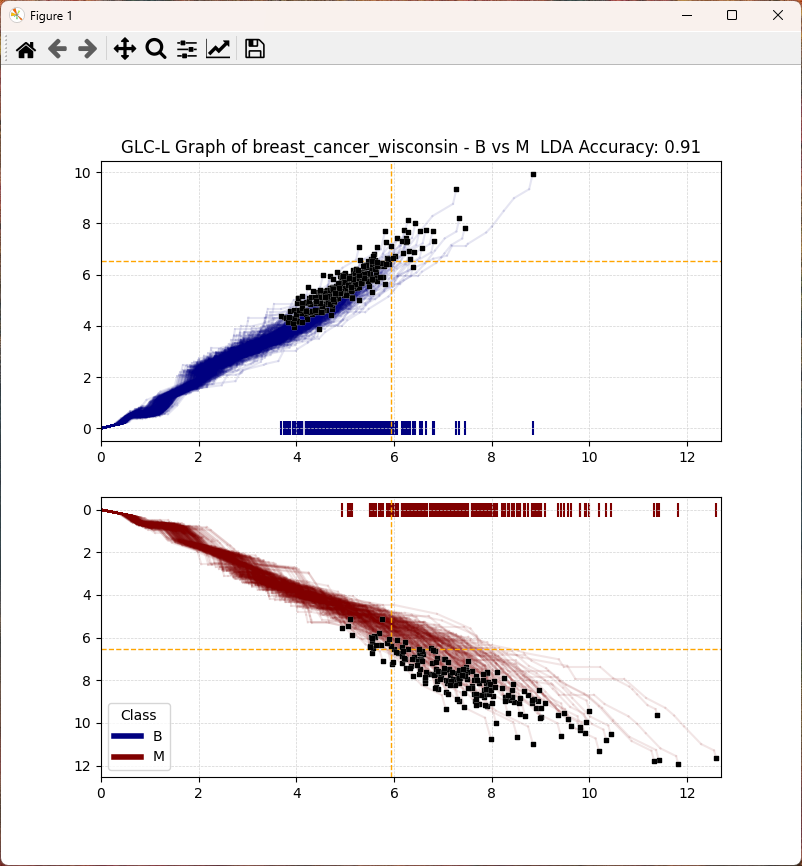
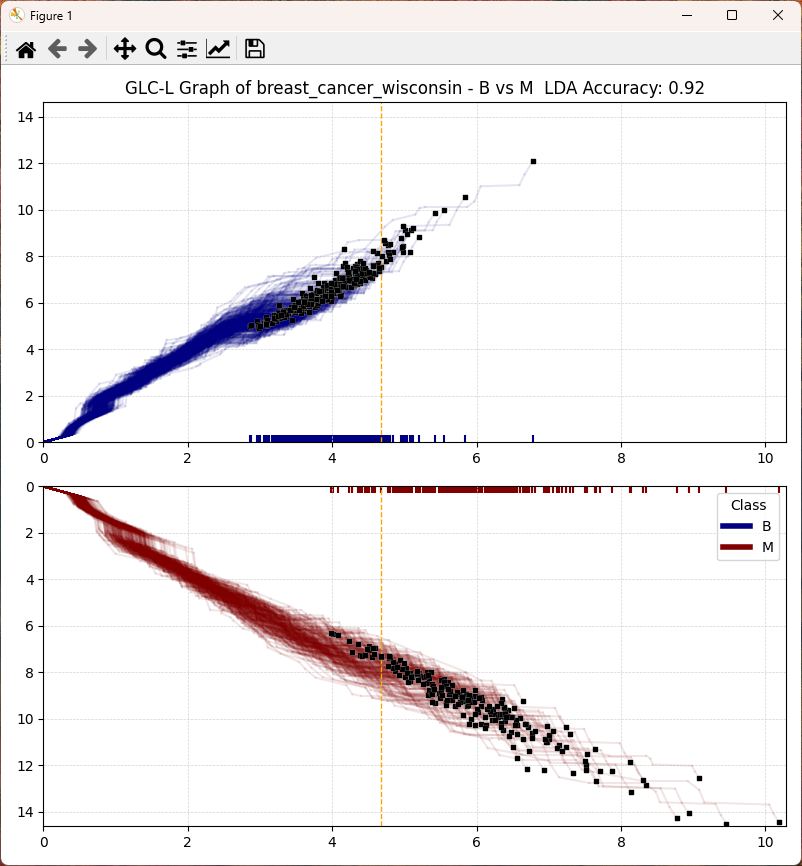
GLC-L match subplot y-axes

diff --git a/glc_line_plotter.py b/glc_line_plotter.py
@@ -96,7 +96,7 @@ def find_lda_separation_line(df, lda_model, feature_columns, label_column, angle
 
 def plot_lda_separation_line(midpoint_x, midpoint_y):
     plt.axvline(x=midpoint_x, color='orange', linestyle='--', linewidth=1)
-    plt.axhline(y=midpoint_y, color='orange', linestyle='--', linewidth=1)
+    #plt.axhline(y=midpoint_y, color='orange', linestyle='--', linewidth=1)
 
 def plot_glyphs(df, dataset_name, coefficients=None, accuracy=None):
     feature_columns = [col for col in df.columns if col != 'class']
@@ -120,15 +120,20 @@ def plot_glyphs(df, dataset_name, coefficients=None, accuracy=None):
     plt.figure(figsize=(8, 8))
     
     max_x_value = 0
+    max_y_value = 0
     for unique_label in unique_labels:
         for index, row in df[df[label_column] == unique_label].iterrows():
             x_prev = 0
+            y_prev = 0
             for i, feature in enumerate(feature_columns):
                 a_i = row[feature]
                 theta_i = angles[i]
                 x_i = x_prev + a_i * np.cos(theta_i)
+                y_i = y_prev + a_i * np.sin(theta_i)
                 x_prev = x_i
+                y_prev = y_i
             max_x_value = max(max_x_value, x_i)
+            max_y_value = max(max_y_value, y_i)
     
     plt.subplot(2, 1, 1)
     plt.grid(color='lightgray', linestyle='--', linewidth=0.5)
@@ -150,6 +155,7 @@ def plot_glyphs(df, dataset_name, coefficients=None, accuracy=None):
     midpoint_x, midpoint_y = find_lda_separation_line(df, lda_model, feature_columns, label_column, angles)
     plot_lda_separation_line(midpoint_x, midpoint_y)
     plt.xlim(0, max_x_value + 0.1)
+    plt.ylim(0, max_y_value + 0.1)
     classes = ', '.join(unique_labels[1:])
     plt.title(f'GLC-L Graph of {dataset_name} - {first_class} vs {classes}  LDA Accuracy: {accuracy:.2f}')
     
@@ -174,7 +180,7 @@ def plot_glyphs(df, dataset_name, coefficients=None, accuracy=None):
     plot_lda_separation_line(midpoint_x, midpoint_y)
 
     plt.xlim(0, max_x_value + 0.1)
-    
+    plt.ylim(0, max_y_value + 0.1)
     plt.gca().invert_yaxis()
     
     custom_lines = [plt.Line2D([0], [0], color=color, lw=4) for color in label_to_color.values()]
